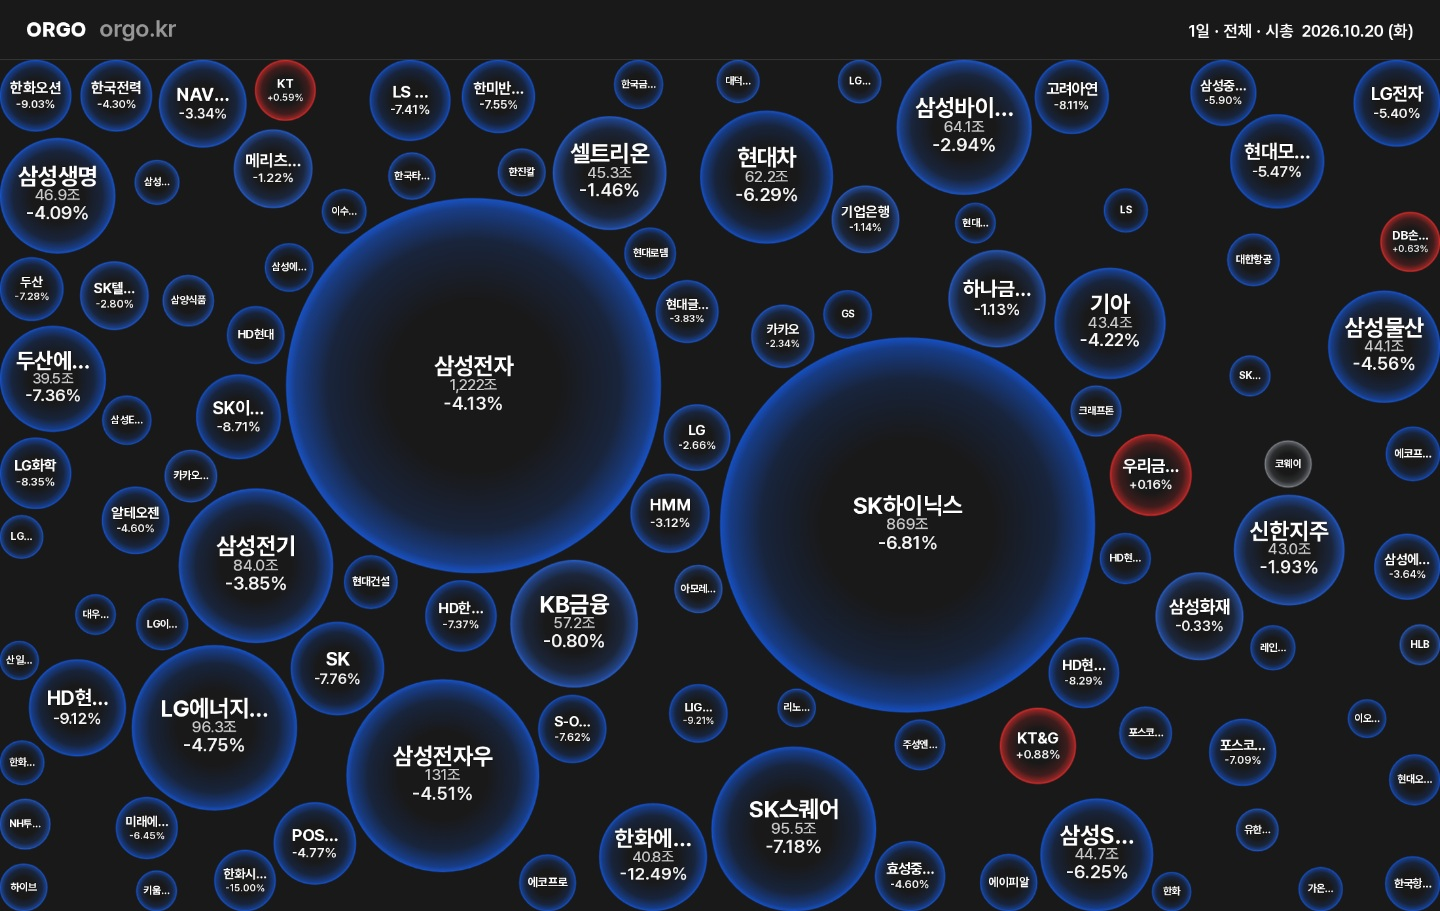
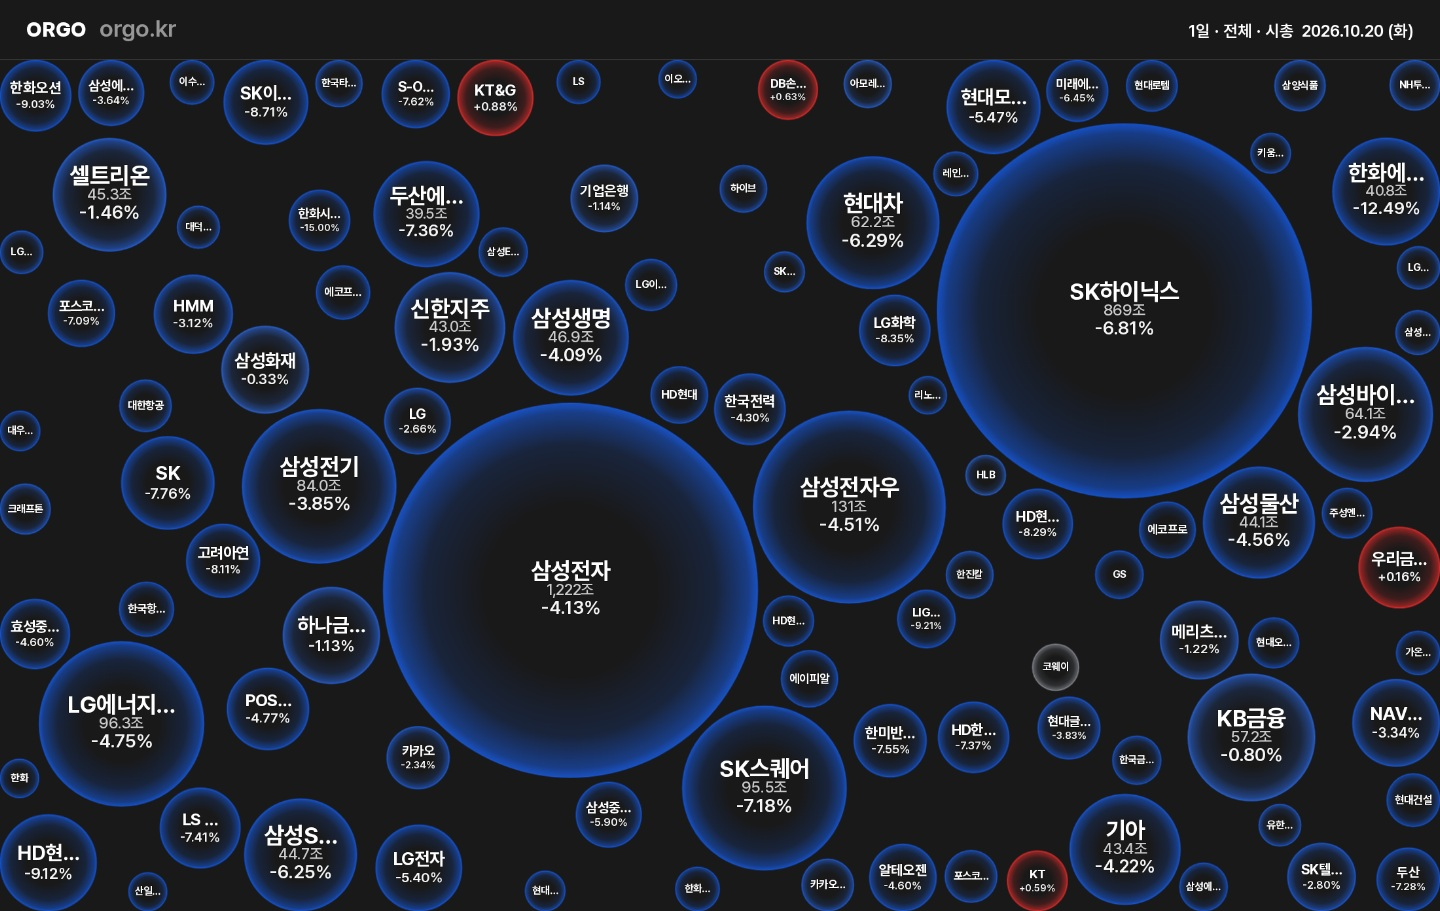
build: ORGO daily marketing

diff --git a/public/marketing/20261020/naver-blog.html b/public/marketing/20261020/naver-blog.html
@@ -3,7 +3,7 @@
 <div id="post">
 <p><img src="https://orgo.kr/marketing/20261020/title.jpg" alt="20261020 10월 20일 플리토 상한가 이유는?"></p>
 <p>오늘 장 마감 정리, 바로 시작할게요! 플리토 상한가 이유부터 볼게요.</p>
-<p>10월 20일 코스피는 3.7% 내렸고, 코스닥은 3.3% 내렸습니다.<br>플리토는 '3분기 누적 영업익 103억원' 기사와 함께 상한가를 기록했습니다.<br>큰 줄기 없이 개별 종목의 소식이 주가를 움직인 하루였습니다.</p>
+<p>10월 20일 코스피는 3.7% 내렸고, 코스닥은 3.3% 내렸습니다.<br>플리토는 '창사 이래 최대 영업익 103억원' 기사와 함께 상한가를 기록했습니다.<br>영상콘텐츠 테마가 앞장섰지만, +10% 이상 오른 종목들의 거래대금 가운데 영상콘텐츠 테마 비중은 1%에 그쳐 쏠림은 약했습니다.</p>
 <p><br></p>
 <p><b>🏆 오늘의 대장</b></p>
 <p>오늘은 대장주 기준(거래대금×상승률)을 넘는 종목이 없었습니다.<br>큰돈이 한 종목에 몰리지 않은 날입니다.</p>
@@ -13,10 +13,14 @@
 <p>📸 10월 20일 오늘의 주도주 TOP5 — 상승률×거래대금 기준(마감)</p>
 <p><br></p>
 <p><b>🔍 플리토, 어떤 종목이길래</b></p>
-<p>플리토는 양방향미디어와서비스 업종, AI 챗봇 테마로 분류되는 종목입니다.<br>같은 날 나온 기사: 「플리토, 3분기 누적 영업익 103억…전년 연간 실적 돌파」(블로터), 「플리토, 창사 이래 최대 영업익 103억원…3분기 만에 달성」(뉴시스).<br>최근 1년 동안 +10% 이상 오른 날이 이번 말고도 12번 있었습니다.<br>직전은 9월 10일(+10.4%)로, '대한산업안전협회와 MOU 체결' 기사가 나온 날이었습니다.<br>급등이 잦은 편인 종목입니다.<br>같은 테마에서 함께 크게 오른 종목은 없었습니다.<br>회사 자체 소식에 반응한 것으로 보입니다.</p>
+<p>플리토는 양방향미디어와서비스 업종, AI 챗봇 테마로 분류되는 종목입니다.<br>같은 날 나온 기사: 「플리토, 창사 이래 최대 영업익 103억원…3분기 만에 달성」(뉴시스), 「플리토, 3분기 영업익 90억 '역대 최대'…작년 연간 실적도 넘었다」(이데일리).<br>최근 1년 동안 +10% 이상 오른 날이 이번 말고도 12번 있었습니다.<br>직전은 9월 10일(+10.4%)로, '대한산업안전협회와 MOU 체결' 기사가 나온 날이었습니다.<br>급등이 잦은 편인 종목입니다.<br>같은 테마에서 함께 크게 오른 종목은 없었습니다.<br>회사 자체 소식에 반응한 것으로 보입니다.</p>
+<p><img src="https://orgo.kr/marketing/20261020/theme-bubble.jpg" alt="20261020 급등주 테마별 버블맵"></p>
+<p>📸 10월 20일 테마별 급등주 지도</p>
+<p><img src="https://orgo.kr/marketing/20261020/theme-tree.jpg" alt="20261020 급등주 테마별 트리맵"></p>
+<p>📸 10월 20일 테마별 급등주 트리맵</p>
 <p><br></p>
-<p><b>🤔 그 밖에 함께 오른 테마</b></p>
-<p>방송과엔터테인먼트 업종 3종목(티엔엔터테인먼트 +22.6%, 코퍼스코리아 +13.7% 등)도 함께 올랐습니다.<br>같은 날 이 종목들을 직접 다룬 기사는 찾지 못했습니다.</p>
+<p><b>🔥 영상콘텐츠 테마 4종목 동반 급등</b></p>
+<p>에스팀(+29.5%)·자이언트스텝(+27.5%)·코퍼스코리아(+13.7%) 순으로 많이 올랐습니다.<br>같은 날 이 종목들을 직접 다룬 기사는 찾지 못했습니다.</p>
 <p><br></p>
 <p><b>💡 개별 재료로 오른 종목</b></p>
 <p>🔺 <b>비나텍</b> +10.9% — 1230억 슈퍼커패시터 공급계약</p>
@@ -30,7 +34,7 @@
 <p>📸 10월 20일 시장 전체 등락 버블맵 (ORGO 수집 종목 기준)</p>
 <p><br></p>
 <p><b>💬 ORGO의 시선</b></p>
-<p>테마보다 종목 하나하나의 소식이 주가를 움직인 날이었습니다.</p>
+<p>크게 움직인 흐름 가운데 같은 날 직접 다룬 기사를 찾은 곳이 없었습니다.<br>상승 이유를 단정하기 어려운 종목이 많았던 날입니다.<br>다음 거래일인 10월 21일(수)에는 영상콘텐츠 테마를 직접 다룬 기사가 나오는지가 지켜볼 부분입니다.</p>
 <p><img src="https://orgo.kr/marketing/20261020/calendar.jpg" alt="202610 대장주 캘린더 · 20261020까지"></p>
 <p>📸 10월 대장주 캘린더 (10월 20일까지)</p>
 <p><br></p>
@@ -42,4 +46,4 @@
 <p><br></p>
 <p><span style="color:#888888">※ 공개된 시세와 기사 제목을 자동으로 모은 기록입니다.<br>기사 인용은 상승 원인을 확정하지 않으며 투자 권유가 아닙니다.</span></p>
 </div>
-<p id="tags">#플리토상한가 #10월20일상한가 #10월20일급등주 #상한가 #급등주 #주식시황 #형지엘리트 #플리토 #형지IC #KR모터스 #형지글로벌 #비나텍</p></body></html>
+<p id="tags">#플리토상한가 #10월20일상한가 #10월20일급등주 #영상콘텐츠관련주 #상한가 #급등주 #주식시황 #형지엘리트 #플리토 #형지IC #KR모터스 #형지글로벌</p></body></html>
